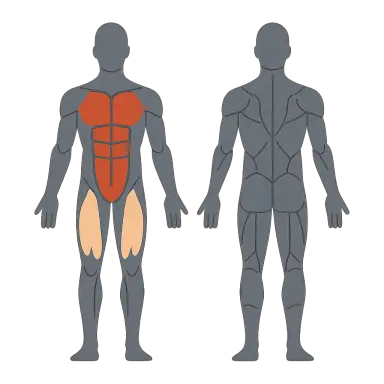
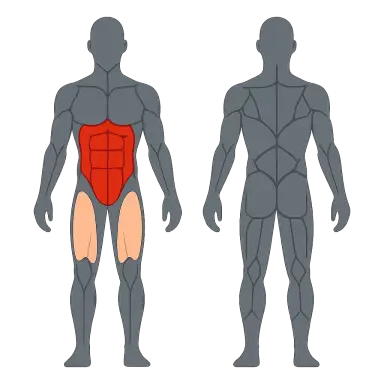
Muscle maps: visual QA of all 291 (26 regenerated, 13 fixed), muscle:* package scripts, catalog-vs-files-vs-index test

Changed region(s): [[0.0625, 0.0312, 0.5312, 0.9688], [0.5312, 0.0312, 0.9375, 0.9688], [0.5938, 0.9062, 0.6875, 0.9688]]

diff --git a/apps/mobile/src/illustrations/muscleMapPrompt.test.ts b/apps/mobile/src/illustrations/muscleMapPrompt.test.ts
@@ -1,3 +1,5 @@
+import { readdirSync, readFileSync } from "node:fs"
+import { join } from "node:path"
 import { CATALOG } from "@tanren/shared"
 import { Array as Arr, Order, Result } from "effect"
 import { describe, expect, it } from "vitest"
@@ -5,6 +7,7 @@ import {
   DRAWABLE_MUSCLES,
   MUSCLE_ANATOMY,
   MUSCLE_MAP_DIR,
+  MUSCLE_MAP_FILE,
   muscleMapImagesSource,
   muscleMapPrompt,
   muscleTiers,
@@ -151,5 +154,33 @@ describe("muscleMapImagesSource", () => {
       "export const MUSCLE_MAP_IMAGES: Readonly<Record<string, ImageSourcePropType>> = {",
     )
     expect(muscleMapImagesSource([])).toContain("= {\n\n}")
+  })
+})
+
+// muscleMapImages.ts holds Metro `require`s of .webp files, which Node cannot load: read it as text.
+describe("generated muscle maps", () => {
+  const packageRoot = join(import.meta.dirname, "../..")
+  const files = Arr.sort(
+    readdirSync(join(packageRoot, MUSCLE_MAP_DIR))
+      .filter((file) => file.endsWith(".webp"))
+      .map((file) => file.replace(/\.webp$/, "")),
+    Order.String,
+  )
+  const catalogIds = Arr.sort(
+    CATALOG.map((entry): string => entry.catalogId),
+    Order.String,
+  )
+
+  it("every catalog id has a muscle map file and every file is a catalog id", () => {
+    expect(files).toEqual(catalogIds)
+  })
+
+  it("the index has one require per file on disk and no extra keys", () => {
+    const source = readFileSync(join(packageRoot, MUSCLE_MAP_FILE), "utf8")
+    const keys = [
+      // Biome unquotes identifier keys and may wrap a long entry, hence `"?` and `\s*`.
+      ...source.matchAll(/"?([a-z0-9-]+)"?:\s*require\(\s*"[^"]+\/\1\.webp",?\s*\)/g),
+    ].flatMap((match) => (match[1] === undefined ? [] : [match[1]]))
+    expect(Arr.sort(keys, Order.String)).toEqual(files)
   })
 })

diff --git a/docs/tasks/v3-design.md b/docs/tasks/v3-design.md
@@ -91,3 +91,5 @@ Order: UI-1 → {UI-2, UI-3, UI-4} in parallel → UI-R → UI-X. UI-2/3/4 may b
 - 12:33 UI-F2 (engineer): UI-R fixes. Progress rows + detail use `ExerciseIllustration` with `illustrationIdFor(exercise)` (local `ExerciseThumb` deleted; Back Squat row now `barbell-back-squat.webp`). Programs: `DayList` is "This week" (`weekWindow`, 7 days, 3 before/after, slid at the ends) below desktop and the full "Days" list in the aside; current row headline + chevron, others `titleVariant="body"`, no fill; `dayStateLabel` exhaustive `Match`. Library: steps `titleVariant="body"` (computed 400), map slot 144×176 with `MuscleMap view="front"` (new prop, crops one panel; figure 63 px wide). `equipmentGlyph` keyed by `CatalogEquipment`, bench bare. ADR-0014 Consequences names the plain-list `ListRow`. Mobile gate green (662 tests).
 - 12:32 UI-F1 (engineer): UI-R fixes 1/2/3/5/7(primitive)/9/10 + nits done. AppBar title `title` (display face, 2 lines max); Stepper drops the label above, caption under the value = `stepperCaption` ("Weight · kg", "Reps"), web numeral scales below 375 px (`numeralScale`); one segment rule `segmentsFilled` (`playerHeader.ts`, current exercise lit) on Today + player; `programBanner` deleted, `todayEyebrowOf` uses `programProgress`; Button `ghost` gone (also `Banner.tsx`), IconButton's own `ghost` variant renamed `plain` (no caller passed it) so the drift grep is empty; `DISABLED_OPACITY`; danger-row test asserts the press tint. Coordinator 12:30: `ExerciseIllustration framed` defaults to false, dark adds a `surfaceRaised` backdrop behind transparent figures (slate figure read dark-on-dark). Player `NameTile` deleted; Today and the player pass `Option` ids. 390 dark proof: Today title BarlowCondensed-ExtraBold 28px, captions "Weight · kg"/"Reps", segments 1 of 4 (Today) and 1 of 7 (player) lit. Mobile check green (65 files, 662 tests). Server 8851 stopped.
 - 12:37–12:42 IMG-5c (engineer): UI-R2 fixes (`useGrouped()` exported from `src/ui`, `ExerciseIllustration` fallback tile `surfaceRaised` in a `ListGroup`; ProgramHome day-row chevron dropped, `EnrolCard` passes the Option, `DayItems` `titleVariant="body"`; `placeholderSvg` and the dead `illustration` colour export deleted; CatalogDetail comments/`framed={false}`) and `MuscleMapImage` (webp from `MUSCLE_MAP_IMAGES` or SVG `MuscleMap` front fallback; `muscleMapImageFor(map, id)` pure, tested) in `CatalogHero` (160 px square slot) and the Progress exercise detail (176 px). Built against 9 map files (IMG-5b not finished: only the bench-press family exists, so Back Squat shows the SVG fallback until the index is regenerated; no code change needed then). 390 proof on barbell-bench-press: `<img>` `assets/musclemaps/barbell-bench-press.webp` 160×160 at x214,y131 (Library), 176×176 (Progress). Mobile check green (65 files, 662 tests). Server 8861 stopped.
+- 12:51–12:58 IMG-5d (engineer): visual QA of all 291 muscle maps (10 sharp contact sheets with P/S muscles under each tile + 300 px zooms of candidates); 26 flagged (core → chest painted, push-ups/crunches → quads, curls/wrist curls → calves or shins, `dumbbell-overhead-triceps-extension` had a text title), regenerated once (~$1.04), shrunk and re-indexed (291). Fixed 13 (bicycle-crunch, cable-pull-through, chin-up, dead-bug, diamond-push-up, hip-abduction-machine, incline-dumbbell-curl, inverted-row, landmine-rotation, plank-hip-dip, wide-stance-leg-press, worlds-greatest-stretch, zottman-curl); still wrong 13 (barbell-wrist-curl, bird-dog, clap-push-up, crunch, dumbbell-overhead-triceps-extension, hollow-hold, kettlebell-halo (now with a text title), pallof-press, plank, push-up, standing-cable-crunch, superman-hold, toe-touch-crunch): systematic, needs a prompt fix, not another roll. Scripts `muscle:generate|shrink|index` (mobile) + root `muscle:generate|index`; catalog-vs-files + index test in `muscleMapPrompt.test.ts`. Mobile check green (65 files, 664 tests); musclemaps 4.8 MB.
+- 12:58 UI-X2 (qa): final pass done on the exported build: 44 screenshots + 3 contact sheets as `UI-X2-*.png` in the scratchpad; errors empty on all pages; map 160x160 (nat 384 sq), hero transparent in light and `surfaceRaised` (35,39,45) wrapper in dark; ui-measure small=[] with ramp keys only; nit: Pull-Up row shows "e1RM 0 kg".
